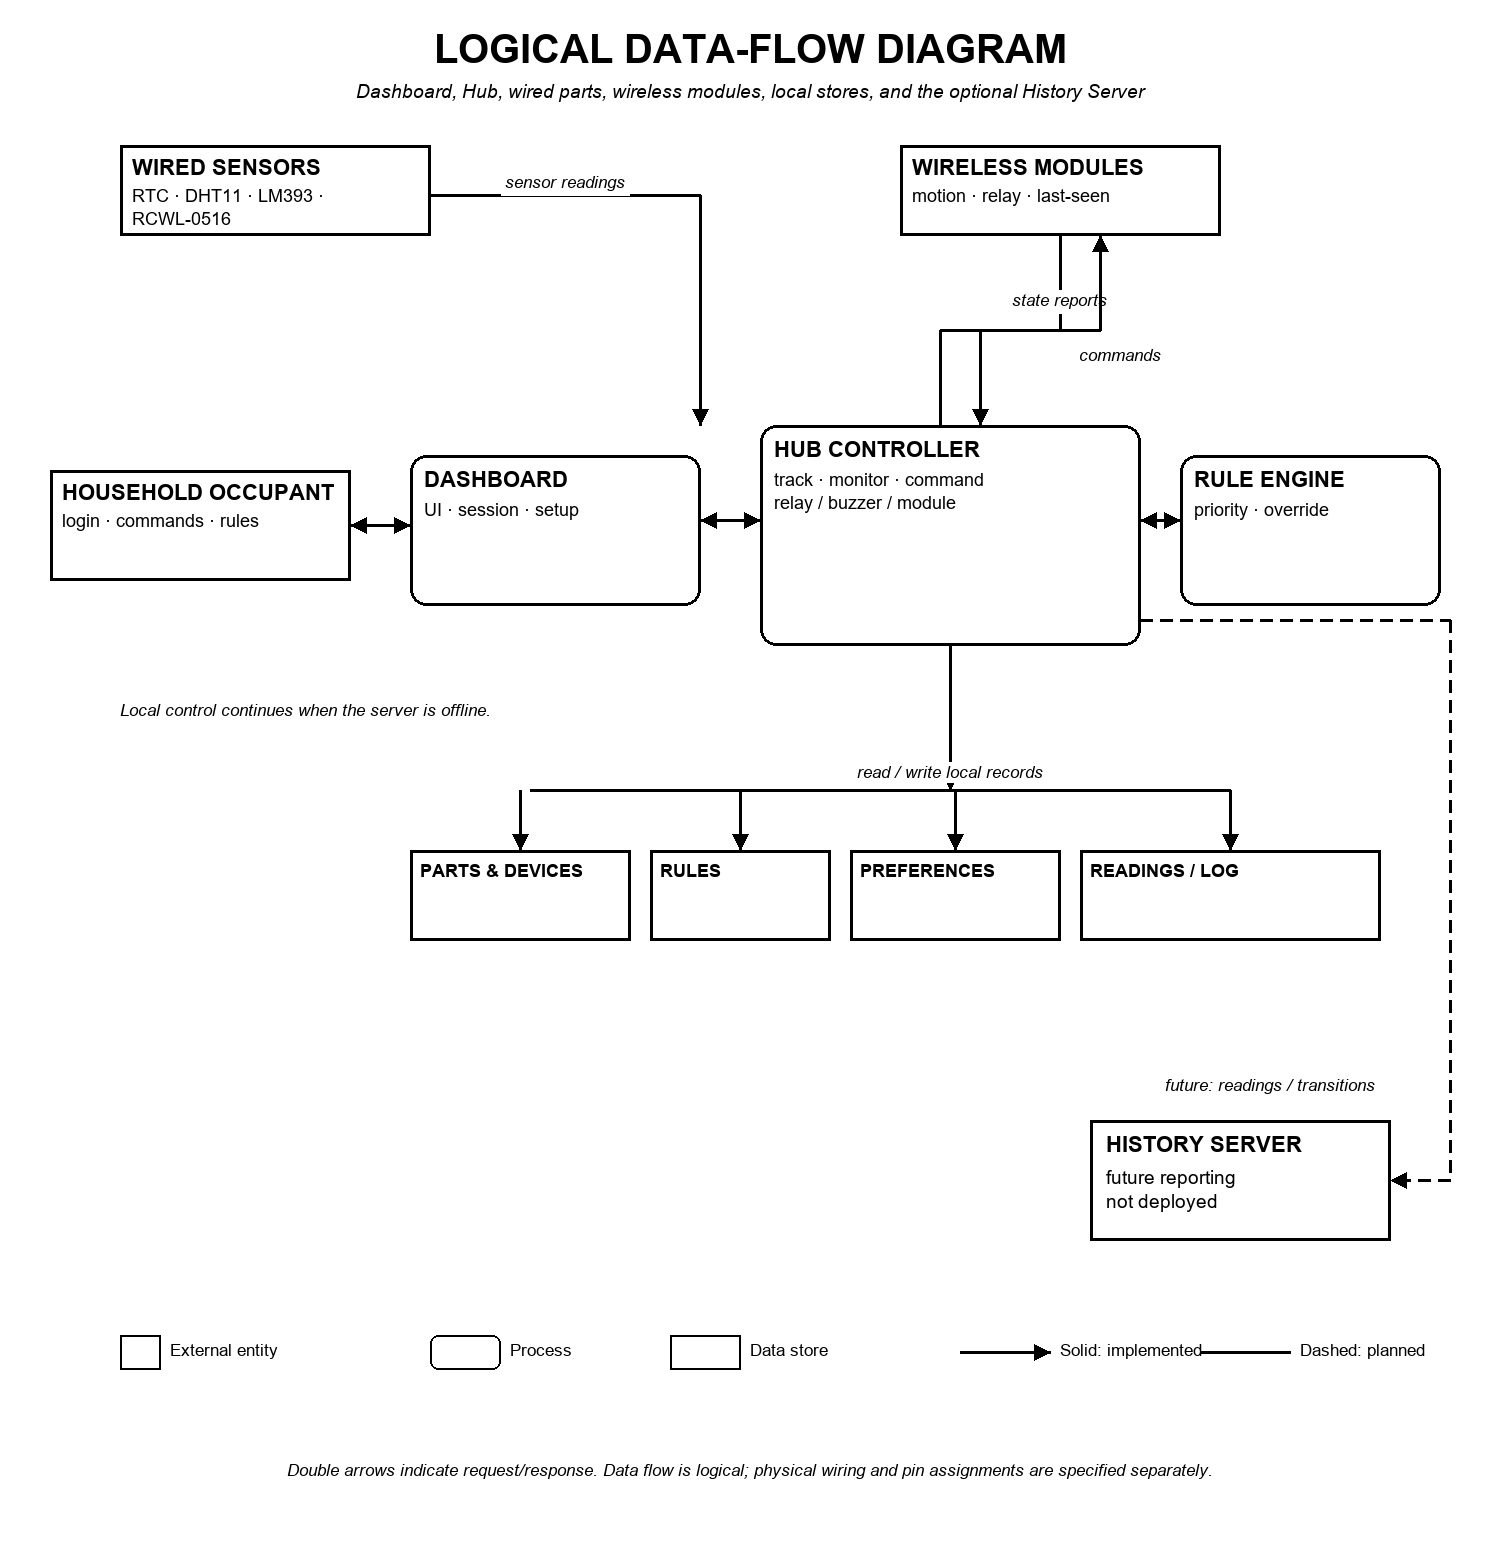
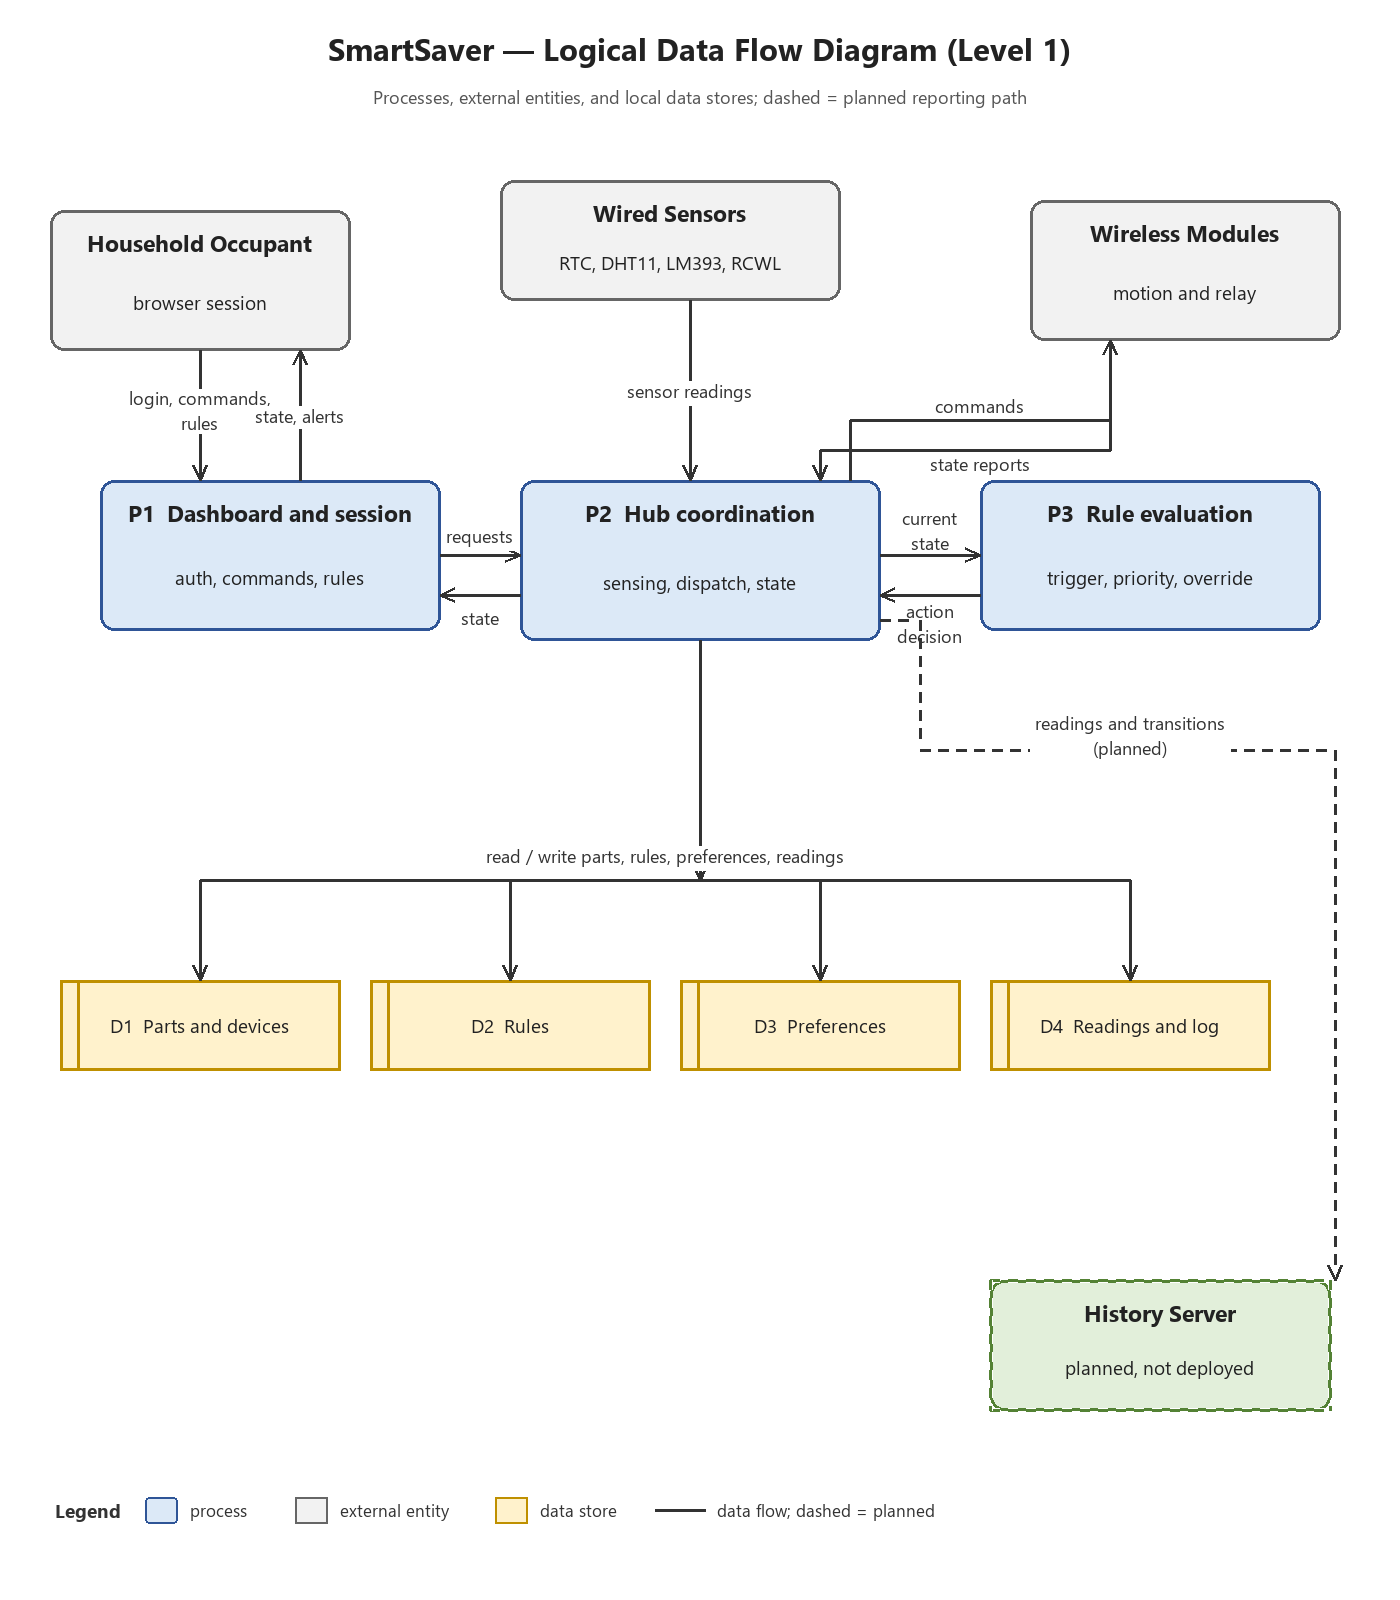
Add files via upload

diff --git a/figures/build_charts.py b/figures/build_charts.py
@@ -193,8 +193,8 @@ def chart_33():
 def chart_34():
     c = Chart(1600, 1000)
     frame(c, "ISO/IEC 25010 CHARACTERISTIC MEANS", "Five IT professional evaluators; 4-point scale; axis starts at 3.0")
-    labels = ["Functional suitability", "Performance efficiency", "Reliability", "Usability", "Security", "Compatibility", "Maintainability", "Portability"]
-    vals = [3.60, 3.52, 3.87, 3.50, 3.50, 3.60, 3.56, 3.60]
+    labels = ["Functional suitability", "Performance efficiency", "Compatibility", "Interaction capability", "Reliability", "Security", "Maintainability", "Flexibility"]
+    vals = [3.60, 3.50, 3.80, 3.66, 3.44, 3.60, 3.55, 3.60]
     x0, y0, w, h = 500, 170, 1000, 650
     xmin, xmax = 3.0, 4.0
     def xp(v): return x0 + (v - xmin) / (xmax - xmin) * w
